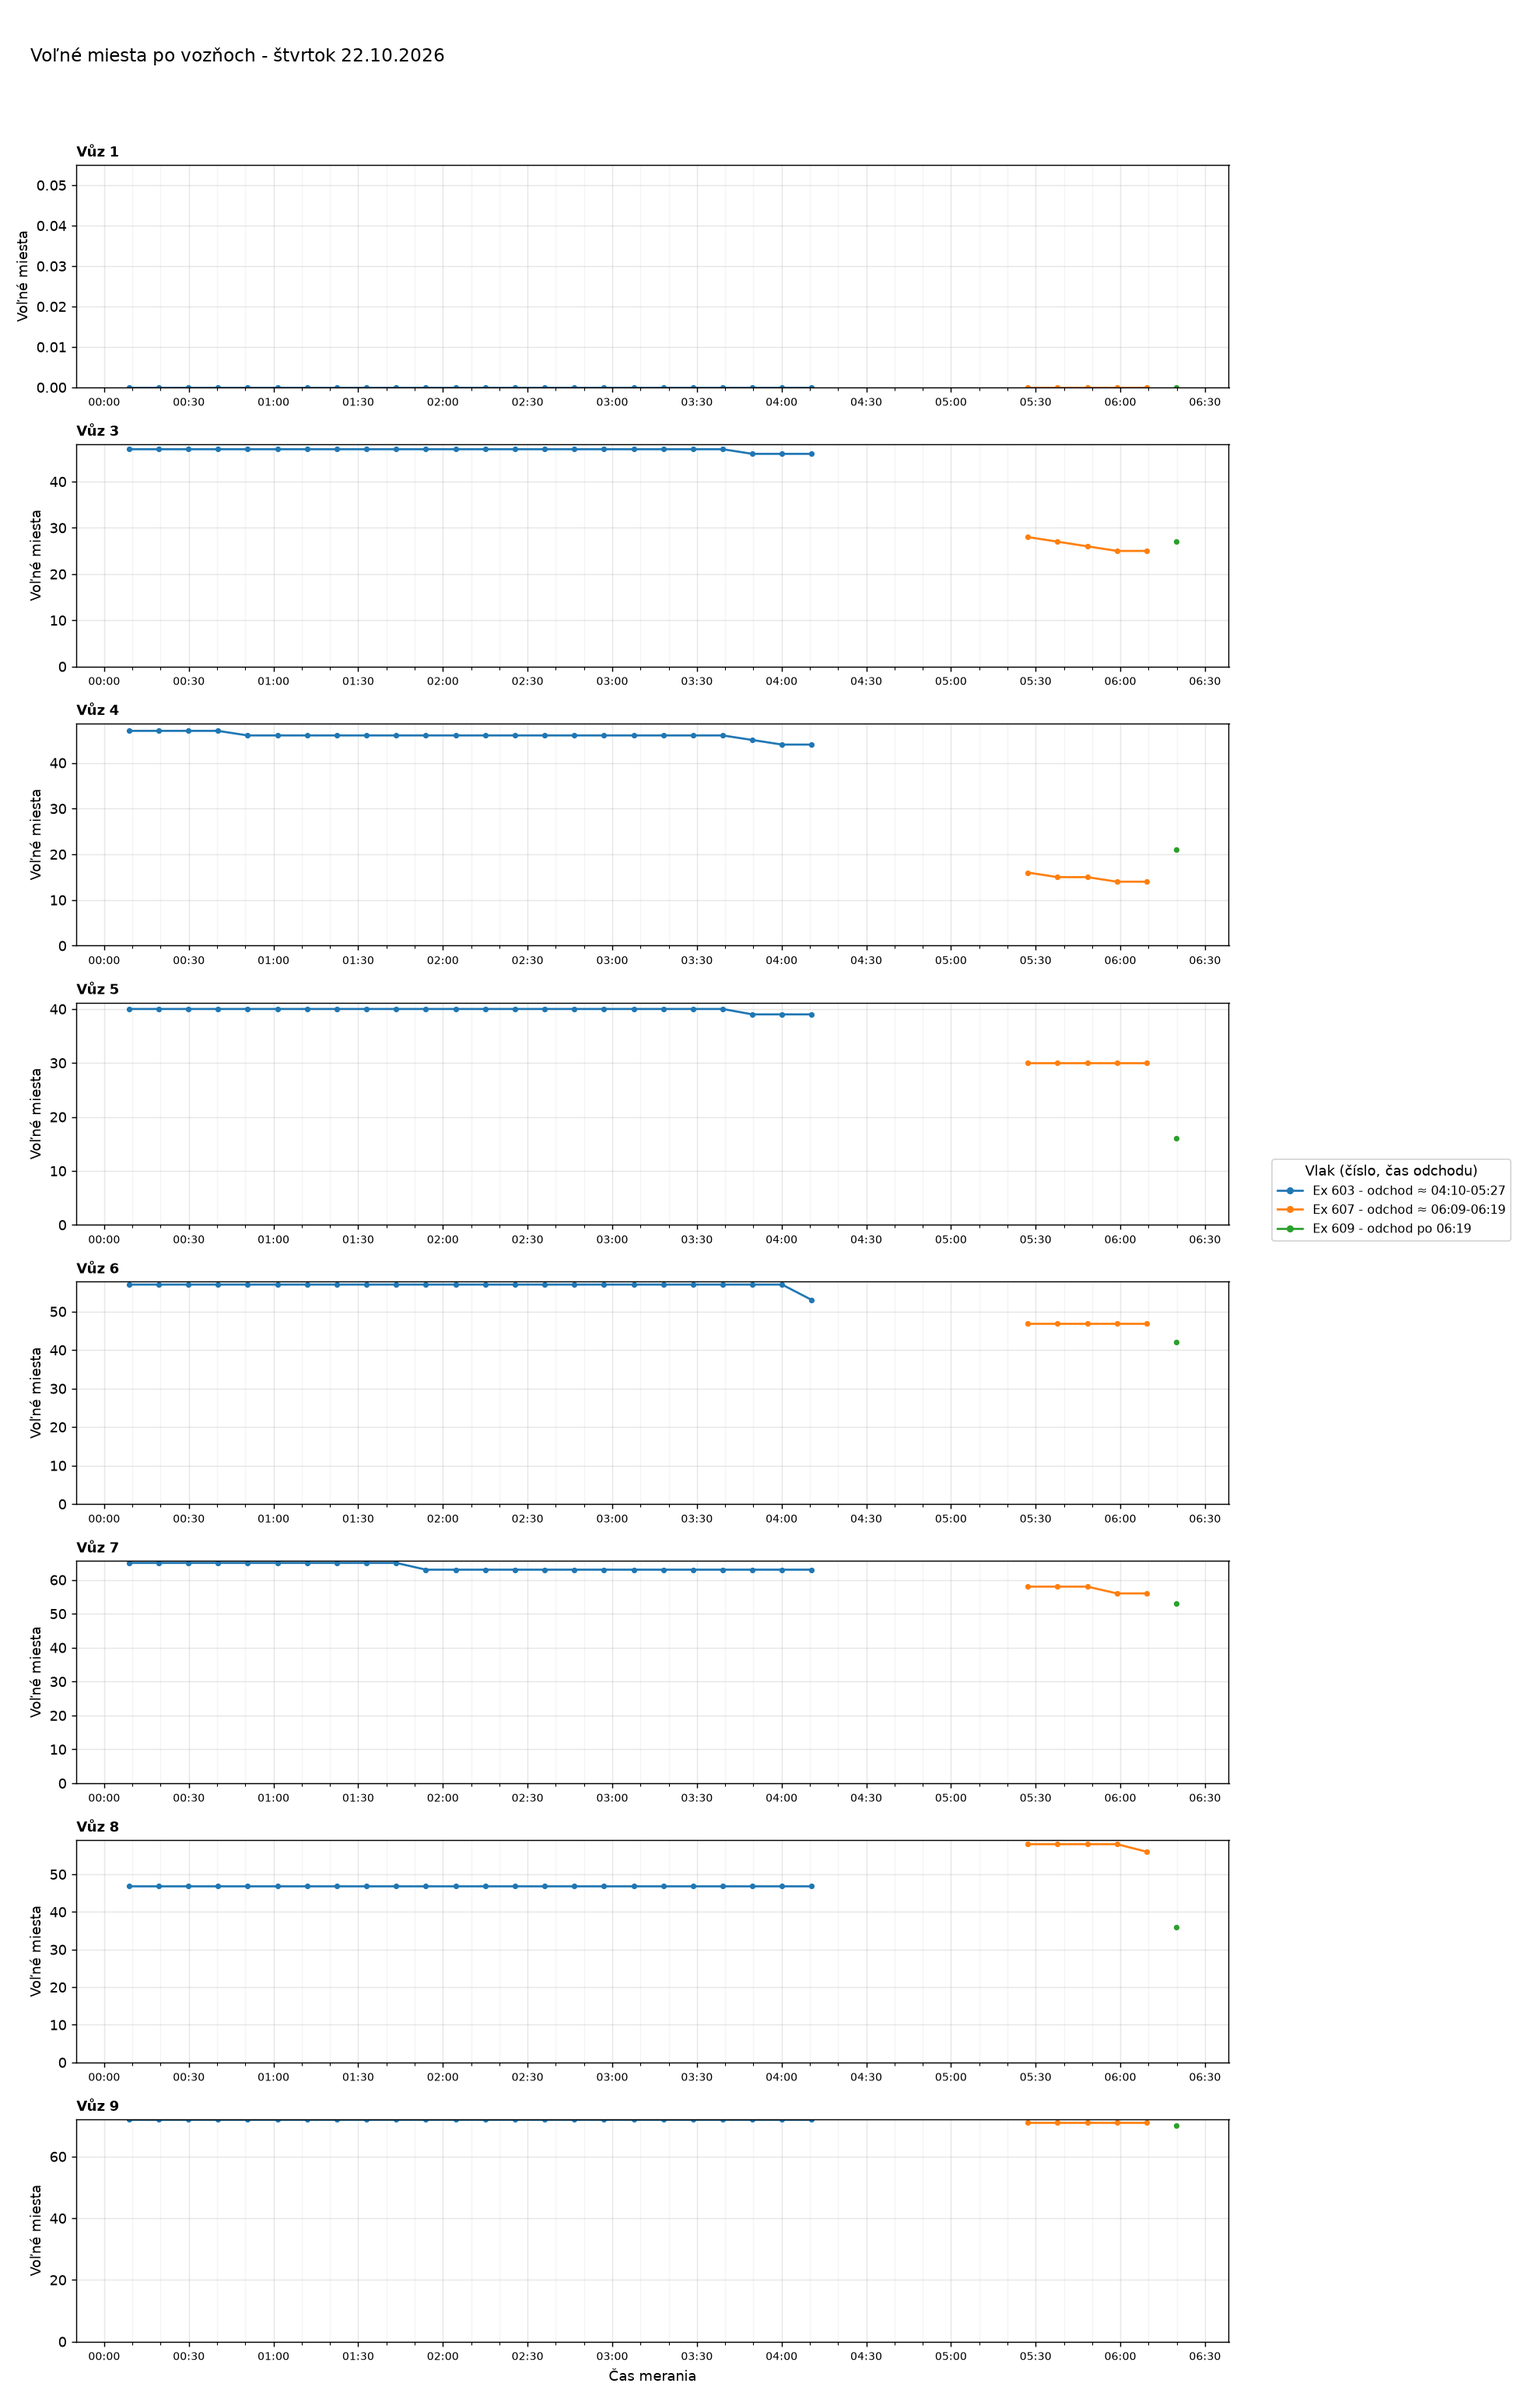
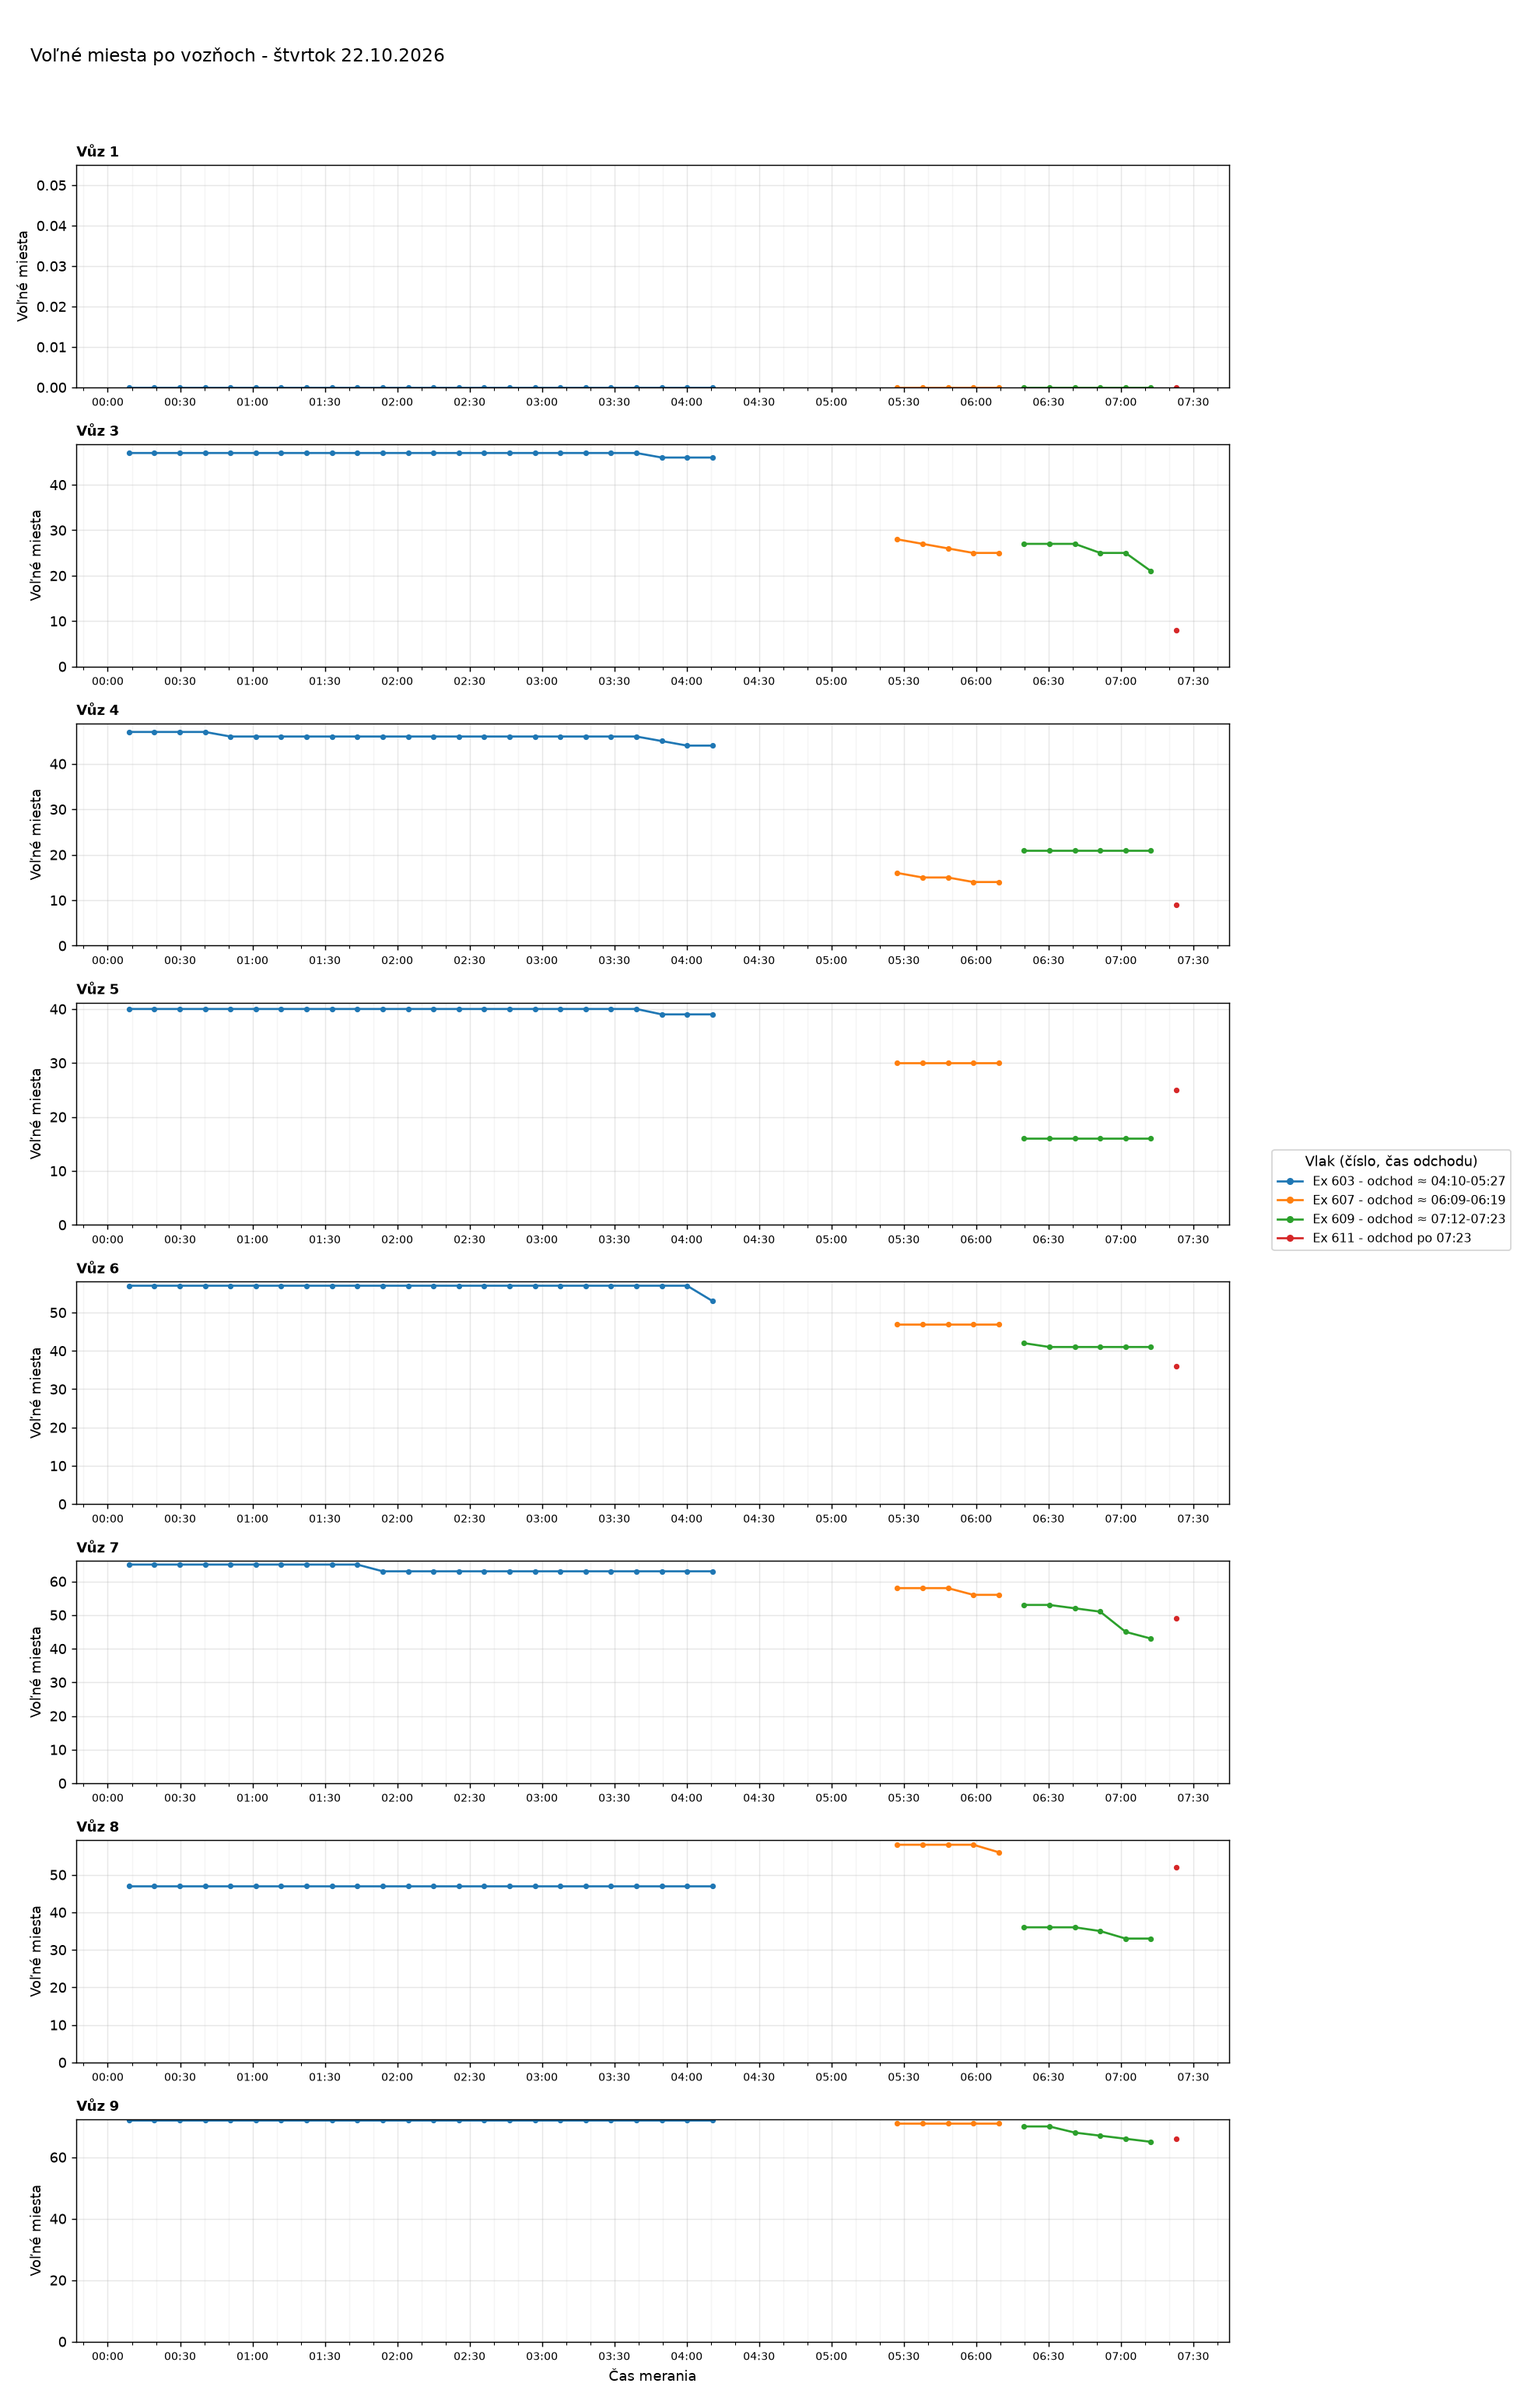
Aktualizácia grafov 2026-10-22 07:26

diff --git a/index.html b/index.html
@@ -30,7 +30,7 @@ img{display:block;width:100%;height:auto;background:#fff;border-radius:6px;
 <body>
 <main>
 <h1>Voľné miesta vo vlakoch</h1>
-<p class="muted">Posledné meranie: 22.10.2026 06:19 ·
+<p class="muted">Posledné meranie: 22.10.2026 07:23 ·
 <a href="data/obsadenost_data.csv">stiahnuť dáta (CSV)</a></p>
 
 <section class="card">
@@ -38,7 +38,7 @@ img{display:block;width:100%;height:auto;background:#fff;border-radius:6px;
 <div class="tablewrap"><table>
 <thead><tr><th>Deň</th><th>Meraní</th><th>Vlakov</th><th>Čas meraní</th></tr></thead>
 <tbody>
-<tr><td><a href="#d2026-10-22">štvrtok 22.10.2026</a></td><td>30</td><td>3</td><td>00:08-06:19</td></tr>
+<tr><td><a href="#d2026-10-22">štvrtok 22.10.2026</a></td><td>36</td><td>4</td><td>00:08-07:23</td></tr>
 <tr><td><a href="#d2026-10-21">streda 21.10.2026</a></td><td>96</td><td>15</td><td>00:10-23:58</td></tr>
 <tr><td><a href="#d2026-10-20">utorok 20.10.2026</a></td><td>34</td><td>7</td><td>13:55-23:50</td></tr>
 </tbody></table></div>
